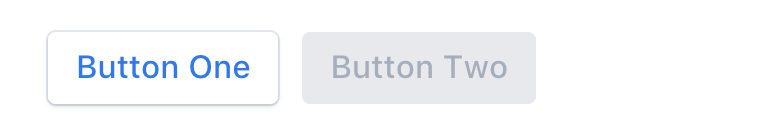
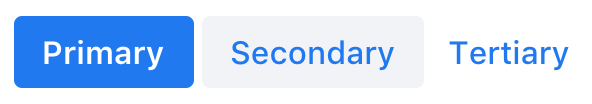
FFS theme
- Remove use of unnecessary `--valo-font-size` property
- Add an intermediate property for sizing the button
`--valo-button-size`
- Remove box-shadows and update the background colors (which allows us
to remove the `--_valo-button-background-color` tweak property for the
dark palette)
- Don’t transition background color and text color
- Simplify hover and active styles (they also now work nicely on touch
devices as well)
- Remove horizontal margins (now aligns the same as text-field when
stacked vertically)
- Remove margins from icons when `theme="icon"` is used (so they are
always centered inside the button)
- Update screenshot to match the new style

Changed region(s): [[0.0, 0.1442, 0.3649, 0.8654], [0.3649, 0.375, 0.6689, 0.6923], [0.7601, 0.375, 0.973, 0.6635]]

diff --git a/packages/vaadin-button/theme/valo/vaadin-button.html b/packages/vaadin-button/theme/valo/vaadin-button.html
@@ -8,31 +8,28 @@
   <template>
     <style>
       :host {
+        --valo-button-size: var(--valo-size-m);
         display: inline-block;
         color: var(--valo-primary-text-color);
         font-family: var(--valo-font-family);
-        font-size: var(--valo-font-size, var(--valo-font-size-m));
+        font-size: var(--valo-font-size-m);
         font-weight: 500;
-        /* Custom property only needed for the dark theme */
-        background-color: var(--_valo-button-background-color, var(--valo-tint-80pct));
-        min-width: calc(var(--valo-size, var(--valo-size-m)) * 2);
-        min-height: var(--valo-size, var(--valo-size-m));
+        background-color: var(--valo-contrast-5pct);
+        min-width: calc(var(--valo-button-size) * 2);
+        min-height: var(--valo-button-size);
         border-radius: var(--valo-border-radius);
-        margin: var(--valo-space-xs);
+        margin: var(--valo-space-xs) 0;
         -webkit-tap-highlight-color: transparent;
         -webkit-font-smoothing: antialiased;
         -moz-osx-font-smoothing: grayscale;
-        transition-property: background-color, color, box-shadow;
-        transition-duration: 0.3s;
         position: relative;
-        box-shadow: 0 0 0 1px var(--valo-shade-10pct), 0 1px 2px 0 var(--valo-shade-20pct);
         cursor: default;
       }
 
       [part="button"] {
         border: 0;
         margin: 0;
-        padding: var(--valo-space-xs) calc(var(--valo-size, var(--valo-size-m)) / 3 + var(--valo-border-radius) / 2);
+        padding: calc(var(--valo-button-size) / 6) calc(var(--valo-button-size) / 3 + var(--valo-border-radius) / 2);
         background-color: transparent;
         color: inherit;
         font: inherit;
@@ -49,16 +46,18 @@
         text-overflow: ellipsis;
         cursor: inherit;
         /* TODO magic number, based on Valo icons size -1px to make it work nicely with Roboto and SF fonts */
-        line-height: calc(var(--valo-size, var(--valo-size-m)) - 13px);
+        line-height: calc(var(--valo-button-size) - 13px);
       }
 
       [part="button"]::-moz-focus-inner {
         border: 0;
       }
 
+      /* Hover */
+
       @media (hover: hover) {
-        :host(:hover:not([theme*="tertiary"]):not([active])) {
-          box-shadow: 0 0 0 1px var(--valo-shade-10pct), 0 2px 6px 0 var(--valo-shade-20pct);
+        :host(:not([theme*="tertiary"]):hover)::before {
+          opacity: 0.04;
         }
       }
 
@@ -72,7 +71,7 @@
         right: 0;
         bottom: 0;
         left: 0;
-        background-color: var(--valo-contrast-5pct);
+        background-color: currentColor;
         border-radius: var(--valo-border-radius);
         opacity: 0;
         transition: opacity 0.2s;
@@ -81,7 +80,6 @@
       }
 
       :host::after {
-        background-color: currentColor;
         transition: opacity 1.4s, transform 0.1s;
         will-change: opacity, transform;
         filter: blur(8px);
@@ -91,12 +89,8 @@
         transition-duration: 0.05s;
       }
 
-      :host([active]:not([theme~="primary"]):not([theme*="tertiary"])) {
-        box-shadow: 0 0 0 1px var(--valo-shade-10pct), 0 1px 1px 0 var(--valo-shade-10pct);
-      }
-
       :host([active]:not([theme*="tertiary"]))::before {
-        opacity: 1;
+        opacity: 0.1;
         transition-duration: 0s;
       }
 
@@ -114,15 +108,17 @@
 
       :host([theme*="tertiary"]) {
         background-color: transparent;
-        box-shadow: none;
+        transition: opacity 0.2s;
       }
 
       :host([theme*="tertiary"]) [part="button"] {
-        padding: 0 calc(var(--valo-size, var(--valo-size-m)) / 6 + var(--valo-border-radius) / 2);
+        padding: 0 calc(var(--valo-button-size) / 6 + var(--valo-border-radius) / 2);
       }
 
-      :host([theme*="tertiary"]:not([active]):hover) {
-        opacity: 0.8;
+      @media (hover: hover) {
+        :host([theme*="tertiary"]:not([active]):hover) {
+          opacity: 0.8;
+        }
       }
 
       /* Tertiary inline (no padding or margin) */
@@ -143,56 +139,49 @@
       :host([theme~="primary"]) {
         background-color: var(--valo-primary-color);
         color: var(--valo-primary-contrast-color);
-        box-shadow: 0 1px 2px 0 var(--valo-shade-40pct);
         font-weight: 600;
-        min-width: calc(var(--valo-size, var(--valo-size-m)) * 2.5);
+        min-width: calc(var(--valo-button-size) * 2.5);
       }
 
       :host([theme~="primary"][active])::after {
         opacity: 0.2;
       }
 
-      @media (hover: hover) {
-        :host([theme~="primary"]:hover:not([active])) {
-          box-shadow: 0 2px 6px 0 var(--valo-shade-40pct);
-        }
-      }
-
       /* Small */
 
       :host([theme~="small"]) {
-        --valo-font-size: var(--valo-font-size-s);
-        --valo-size: var(--valo-size-s);
+        font-size: var(--valo-font-size-s);
+        --valo-button-size: var(--valo-size-s);
       }
 
       /* Large */
 
       :host([theme~="large"]) {
-        --valo-font-size: var(--valo-font-size-l);
-        --valo-size: var(--valo-size-l);
+        font-size: var(--valo-font-size-l);
+        --valo-button-size: var(--valo-size-l);
       }
 
       /* Icon-only */
 
       :host([theme~="icon"]:not([theme~="tertiary-inline"])) {
-        min-width: var(--valo-size, var(--valo-size-m));
+        min-width: var(--valo-button-size);
       }
 
       :host([theme~="icon"]:not([theme~="tertiary-inline"])) [part="button"] {
-        padding-left: var(--valo-space-s);
-        padding-right: var(--valo-space-s);
+        padding-left: calc(var(--valo-button-size) / 4);
+        padding-right: calc(var(--valo-button-size) / 4);
       }
 
       /* Icons used together with text (not super proud of these calc's) */
 
       [part="button"] ::slotted(iron-icon:first-child:not(:last-child)) {
-        margin-left: calc(var(--valo-size, var(--valo-size-m)) / -6);
-        margin-right: calc(var(--valo-size, var(--valo-size-m)) / 9);
+        margin-left: calc(var(--valo-button-size) / -6);
+        margin-right: calc(var(--valo-button-size) / 9);
       }
 
       [part="button"] ::slotted(iron-icon:last-child:not(:first-child)) {
-        margin-left: calc(var(--valo-size, var(--valo-size-m)) / 9);
-        margin-right: calc(var(--valo-size, var(--valo-size-m)) / -6);
+        margin-left: calc(var(--valo-button-size) / 9);
+        margin-right: calc(var(--valo-button-size) / -6);
       }
 
       :host([theme~="tertiary-inline"]) [part="button"] ::slotted(iron-icon:first-child:not(:last-child)) {
@@ -200,6 +189,11 @@
       }
 
       :host([theme~="tertiary-inline"]) [part="button"] ::slotted(iron-icon:last-child:not(:first-child)) {
+        margin-right: 0;
+      }
+
+      :host([theme~="icon"]) [part="button"] ::slotted(iron-icon) {
+        margin-left: 0;
         margin-right: 0;
       }
 
@@ -250,11 +244,10 @@
       :host([disabled][disabled]) {
         pointer-events: none;
         color: var(--valo-disabled-text-color);
-        box-shadow: none;
       }
 
       :host([disabled]:not([theme*="tertiary"])) {
-        background-color: var(--valo-contrast-10pct);
+        background-color: var(--valo-contrast-5pct);
       }
 
       /* Keyboard focus */
@@ -282,7 +275,7 @@
       }
 
       @-moz-document url-prefix() {
-        /* Firefox is being stupid and truncates (shows an ellipsis) the suffix icon because of the negative margin */
+        /* Firefox is being stupid and truncates the suffix icon (shows an ellipsis) because of the negative margin */
         [part="button"] ::slotted(iron-icon:last-child:not(:first-child)) {
           margin-right: 0;
         }
